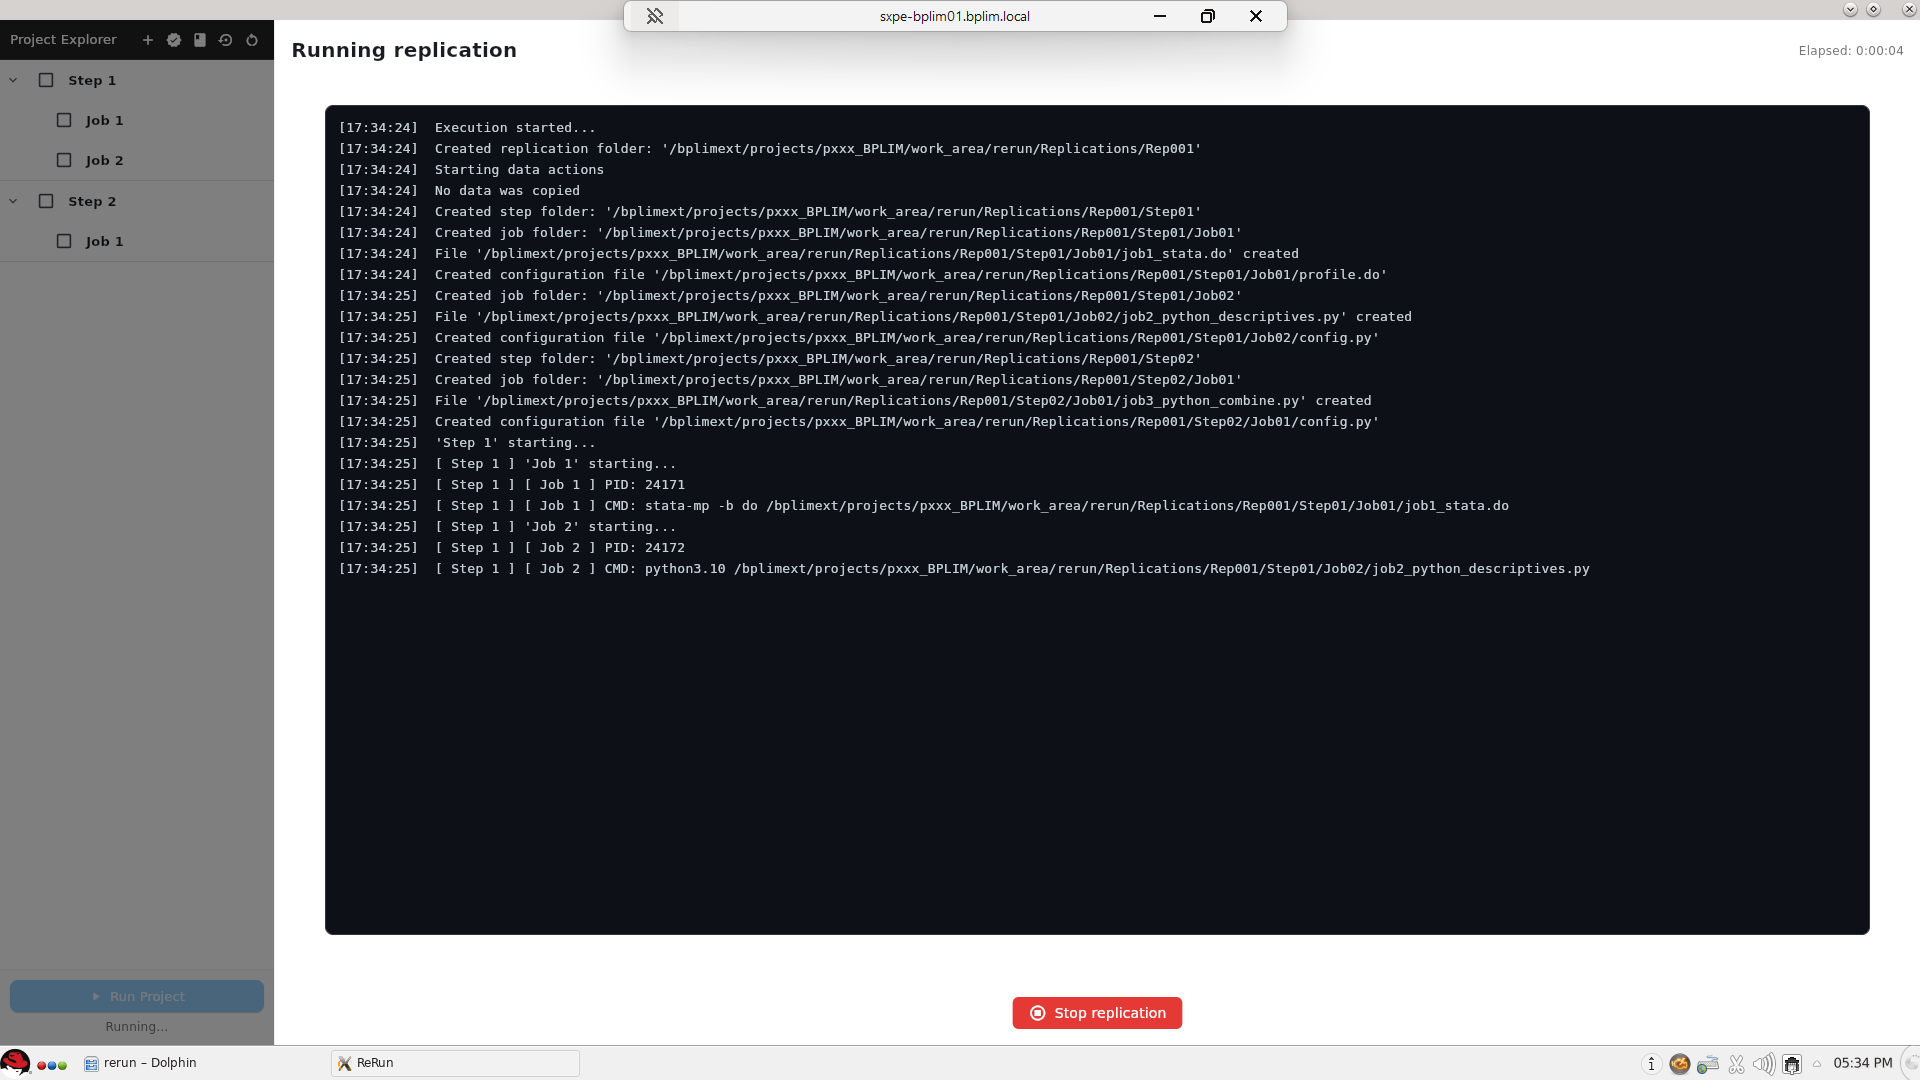
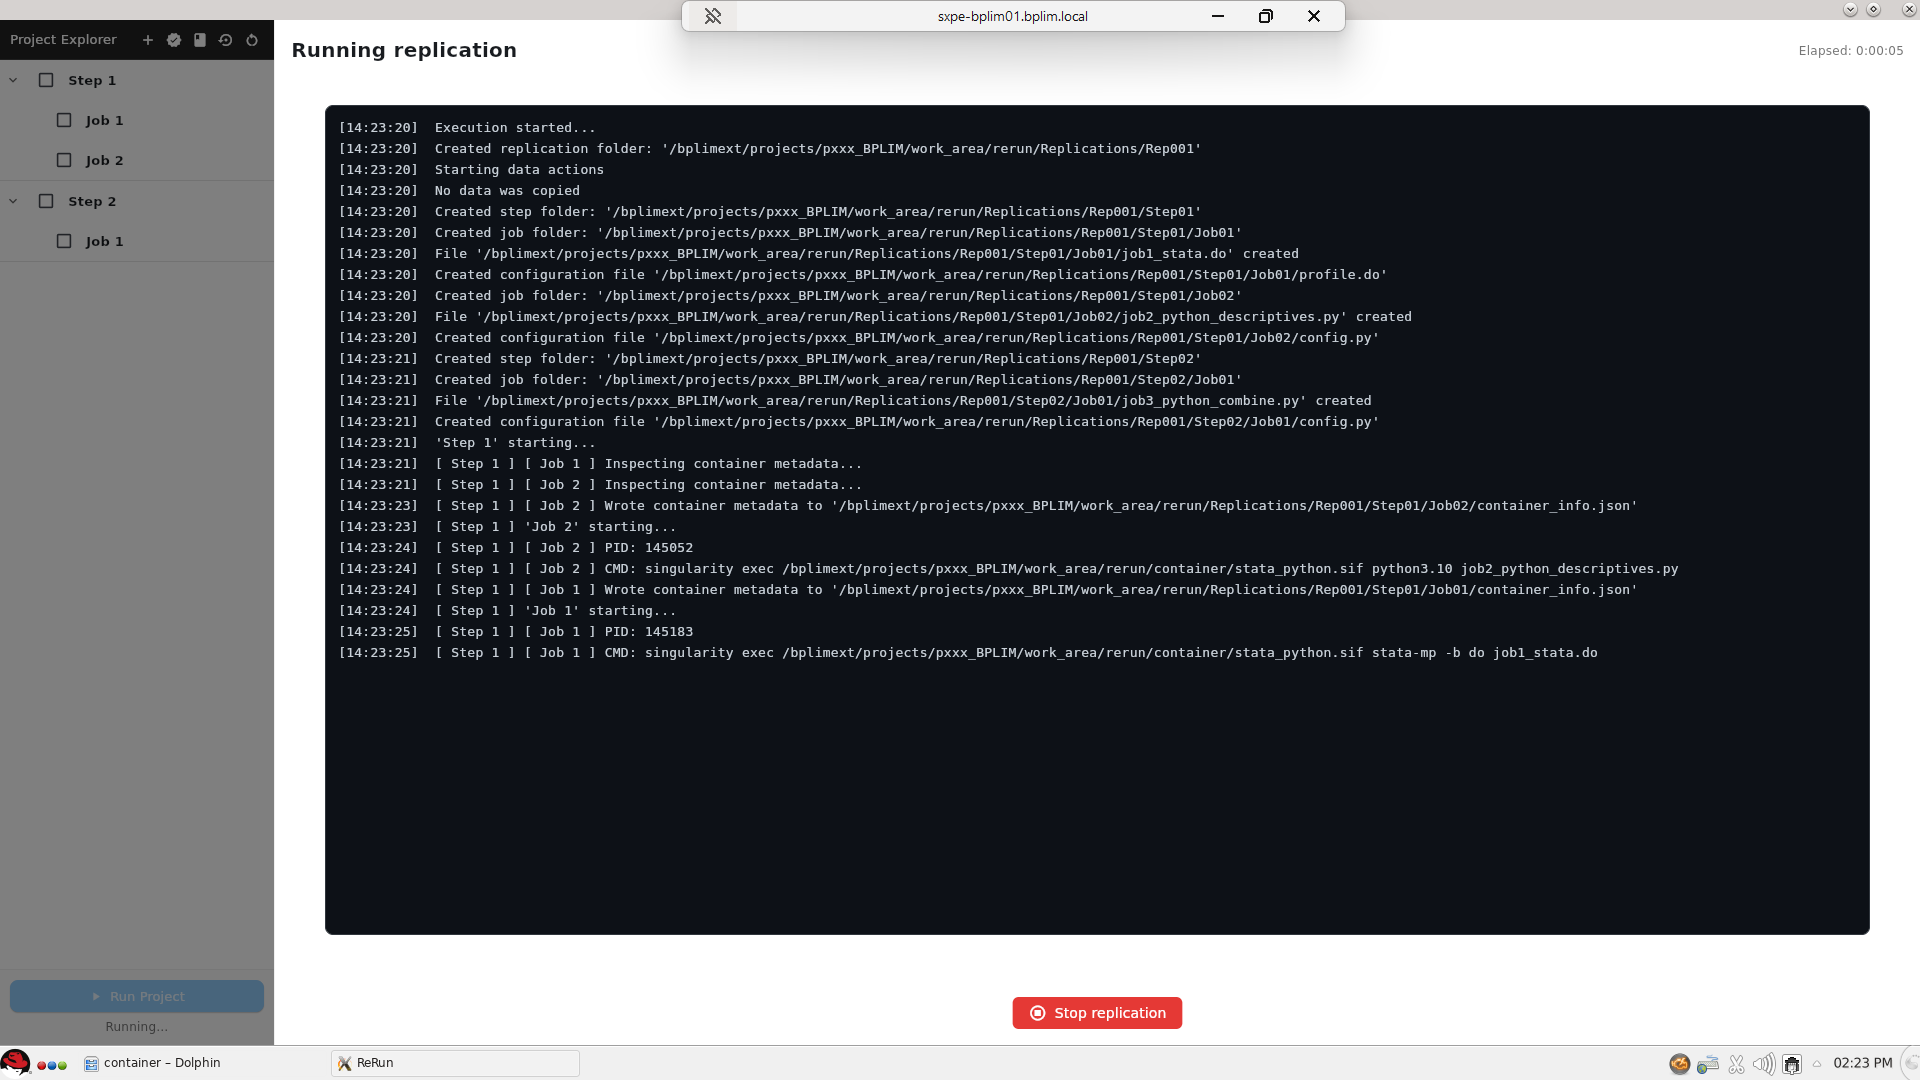
Make output path mandatory in load view

diff --git a/docs/usage/two_step_example.rst b/docs/usage/two_step_example.rst
@@ -6,15 +6,15 @@ This example illustrates how to build a **multi-language, multi-step workflow** 
 - **Step 1:** two jobs running **in parallel** (one in **Stata**, one in **Python**)  
 - **Step 2:** a Python job that **consumes the outputs** generated in Step 1  
 - **Execution in a Linux environment**, specifically in **BPLIM Server**, using a
-  Singularity image that already includes ReRun, Stata, and Python
+  Singularity image that includes Stata and Python
 
 Although this example was executed in the BPLIM environment, any user can replicate the workflow
 on a different system (local machine or server) as long as Stata and Python are installed — either
 locally or within a container (Docker, Singularity, Apptainer).
 
 .. note::
-   In the BPLIM external server, the runtime environment (Stata + Python + ReRun) is already included
-   in a Singularity image.  
+   In the BPLIM external server, the runtime environment (Stata + Python) is already included
+   in the Singularity image.  
    Because all tools are pre-installed, the **Tools** field in the Job Configuration window is left empty.
 
 
@@ -102,11 +102,14 @@ Configure Job 1 - Step 1 (Stata)
    :alt: Job 1 configuration (Stata)
    :width: 820
 
+.. image:: ../_static/mixed_example/06_step1_job1_container.png
+   :alt: Job 1 container (Stata)
+   :width: 820
+
 - **Main Path** → ``/bplimext/projects/pxxx_BPLIM/work_area/rerun/scripts``
 - **Main Script** → ``/bplimext/projects/pxxx_BPLIM/work_area/rerun/scripts/job1_stata.do``
-- **Container Image** → *leave empty*  
-  (we rely on the BPLIM-provided Apptainer image)
 - **Interpreter / Executable** → ``stata-mp``
+- **Container Image** → ``/bplimext/projects/pxxx_BPLIM/work_area/rerun/container/stata_python.sif``
 
 Save, and add a small description.
 
@@ -122,9 +125,14 @@ Configure Job 2 - Step 1 (Python)
    :alt: Job 2 configuration (Python)
    :width: 820
 
+.. image:: ../_static/mixed_example/08_step1_job2_container.png
+   :alt: Job 2 container (Python)
+   :width: 820
+
 - **Main Path** → ``/bplimext/projects/pxxx_BPLIM/work_area/rerun/scripts``
 - **Main Script** → ``job2_python_descriptives.py``
 - **Interpreter / Executable** → ``python3.10``
+- **Container Image** → ``/bplimext/projects/pxxx_BPLIM/work_area/rerun/container/stata_python.sif``
 
 Save, and add a small description.
 
@@ -147,9 +155,14 @@ Configure Job 1 - Step 2 (Python)
    :alt: Job 3 configuration
    :width: 820
 
+.. image:: ../_static/mixed_example/10_step2_job1_container.png
+   :alt: Job 3 container
+   :width: 820
+
 - **Main Path** → ``/bplimext/projects/pxxx_BPLIM/work_area/rerun/scripts``
 - **Main Script** → ``/bplimext/projects/pxxx_BPLIM/work_area/rerun/scripts/job3_python_combine.py``
 - **Command** → ``python3.10``
+- **Container Image** → ``/bplimext/projects/pxxx_BPLIM/work_area/rerun/container/stata_python.sif``
 
 Save the configurations and add a small description.
 
@@ -177,15 +190,21 @@ Step 1 — Stata and Python jobs running **in parallel**:
    :alt: Step 1 parallel execution
    :width: 820
 
+Step 1 — Jobs running:
+
+.. image:: ../_static/mixed_example/13_jobs_running.png
+   :alt: Step 1 running
+   :width: 820
+
 Step 1 finishing:
 
-.. image:: ../_static/mixed_example/13_step1_finished.png
+.. image:: ../_static/mixed_example/14_step1_finished.png
    :alt: Step 1 finishing
    :width: 820
 
 Step 2 — Python job running **after both Step 1 jobs finish** and replication finished after all steps completion:
 
-.. image:: ../_static/mixed_example/14_step2_start_finish.png
+.. image:: ../_static/mixed_example/15_step2_start_finish.png
    :alt: Replication finished
    :width: 820
 
@@ -431,6 +450,7 @@ After running the replication on the BPLIM server:
    ├── Step01/
    │   ├── rerun_readme.md
    │   ├── Job01/
+   │   │   ├── container_info.json
    │   │   ├── job1_stata.do
    │   │   ├── job1_stata.log
    │   │   ├── profile.do
@@ -439,6 +459,7 @@ After running the replication on the BPLIM server:
    │   │       ├── stata_job1.log
    │   │       └── stata_summary.csv
    │   └── Job02/
+   │       ├── container_info.json
    │       ├── config.py
    │       ├── job2_python_descriptives.py
    │       ├── python_requirements.txt
@@ -450,6 +471,7 @@ After running the replication on the BPLIM server:
    └── Step02/
       ├── rerun_readme.md
       └── Job01/
+         ├── container_info.json
          ├── config.py
          ├── job3_python_combine.py
          ├── python_requirements.txt

diff --git a/docs/usage/interface_reference.rst b/docs/usage/interface_reference.rst
@@ -186,7 +186,7 @@ Clears the selected path from the current path input.
 
 **Output Path**
 
-Optional output path override for the loaded replication.
+Output path field for selecting where replication artifacts are written.
 
 .. image:: ../_static/ui_reference/04_load_project_view/05_output_path.png
    :alt: Output Path
